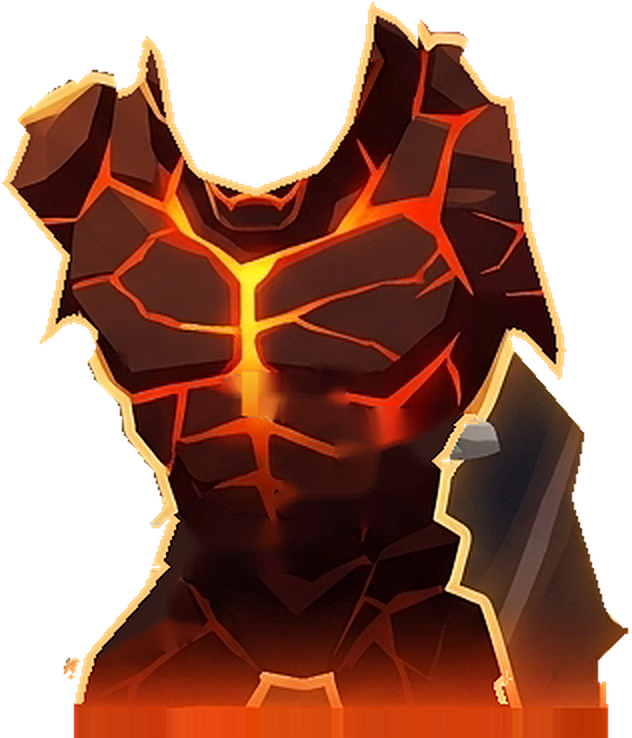
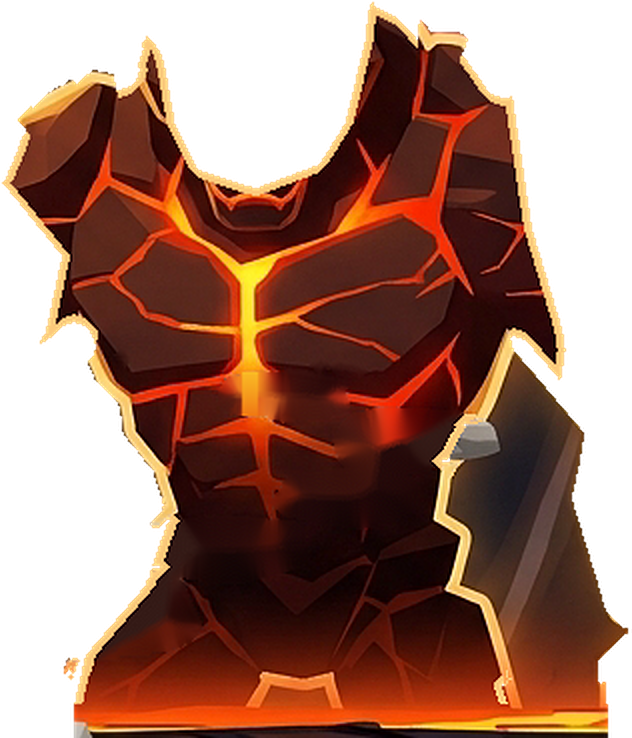
builder: jackal's feet show TARGET's own lava edge, not repeated-row streaks (cracks item still open)
Claude-Session: https://claude.ai/code/session_0157NezqdtDTof1NnH4aVuQr

Changed region(s): [[0.0902, 0.935, 0.962, 1.0]]

diff --git a/tools/beast_rig.py b/tools/beast_rig.py
@@ -548,6 +548,26 @@ def to_canvas(p):
     return ((p[0] - BOX[0]) * SCALE, (p[1] - BOX[1]) * SCALE)
 
 
+# Under the cut TARGET shows its lava line: a bright yellow-orange edge
+# with blobs of lava, then the dark floor. The repeated last row drew a band
+# of vertical streaks there instead ("hard red bars" at the feet), now that
+# the fight's lava line sits at TARGET's height and no longer hides it. So
+# the sink rows are TARGET's own rows under the body, faded out sideways
+# where the body ends.
+SINK_TARGET = True
+SINK_FEATHER = 5.0     # TARGET px
+
+
+def sink_target(rgb, a, T2):
+    k = CUT - BOX[1]
+    rgb, a = rgb.copy(), a.copy()
+    row = ndi.gaussian_filter1d((a[k - 1] > 0.5).astype(float), SINK_FEATHER)
+    row = np.minimum(row * 2.0, 1.0) * (a[k - 1] > 0.0)
+    rgb[k:] = T2[k:k + rgb.shape[0] - k]
+    a[k:] = np.minimum(a[k - 1], row)[None, :]
+    return rgb, a
+
+
 def sink(arr):
     """Repeat the row above the lava under it, so the floor hides the cut."""
     k = CUT - BOX[1]
@@ -613,7 +633,10 @@ def build():
             rgb, a = underlay_line(body, alpha[name], own[name], m), alpha[name].astype(float)
         rgb, a = crop_box(rgb).copy(), crop_box(a).copy()
         if name in ("torso", "fore_r"):
-            rgb, a = sink(rgb), sink(a)
+            if SINK_TARGET:
+                rgb, a = sink_target(rgb, a, crop_box(T))
+            else:
+                rgb, a = sink(rgb), sink(a)
         layers[name] = upscale(rgb, a)
 
     # The rest frame: every layer over the last, as the rig draws it.

diff --git a/design/plan/BUILDER-QUEUE-NOTES.md b/design/plan/BUILDER-QUEUE-NOTES.md
@@ -2107,8 +2107,9 @@ Found by measuring, not by eye: the jackal is TARGET's own pixels, so every crac
 - **Tried and reverted:** `crack_boost` (each crack widened 1 TARGET px with its brightest colour, middles heated to (255,196,70), a painted seam from the Y to the top stone). Chest error 15.1 and it read as orange cartoon outlines, spreading onto the muzzle lines. Not TARGET.
 - **Gap between torso and right arm:** the torso layer now carries TARGET's own dark cliff pixels in the gap the silhouette closes (`enclosed_gaps`), instead of the fight's purple sky.
 - **Seam under the top stone:** `carry_seam` paints the Y's stem on down inside the top stone's hole only (yellow into orange, x 508, y 356-392), so where the fight's slab sits a few px low the seam meets it as a line, not an inpainted haze.
-- **Grader:** R1 FAIL ("no visible change at frame scale"; 2-3x wider cracks with yellow-white cores), R2 FAIL (same, plus "seam a diffuse smear behind the top stone"), R3 FAIL (Y brighter; still thinner redder limb cracks). A registered close-up of the right forearm shows the same cracks as TARGET; the visible differences there are sky, cliff and lava bars. Final: VERDICT: FAIL.
-- Frames: ![[agents/frames/builder/2026-10-09-cracks5-before.png|420]] ![[agents/frames/builder/2026-10-09-cracks5c-after.png|420]]
+- **Feet:** the sink rows under the cut were the last row repeated, a band of vertical streaks now the lava line sits at TARGET's height. `sink_target` puts TARGET's own rows there (its lava edge), faded out sideways where the body ends. The scene's lava strip still shows red bars beside the body; hiding the heat-shimmer band did not remove them (the pool ring itself).
+- **Grader:** R1 FAIL ("no visible change at frame scale"; 2-3x wider cracks with yellow-white cores), R2 FAIL (same, plus "seam a diffuse smear behind the top stone"), R3 FAIL (Y brighter; still thinner redder limb cracks), R4 FAIL (after the sink fix; same asks). A registered close-up of the right forearm shows the same cracks as TARGET; the visible differences there are sky, cliff and lava bars. Final: VERDICT: FAIL.
+- Frames: ![[agents/frames/builder/2026-10-09-cracks5-before.png|420]] ![[agents/frames/builder/2026-10-09-cracks5d-after.png|420]]
 - Meshy: 0 credits.
 
 ## Fist fire: compact curling blaze wrapped on the fist.

diff --git a/design/plan/BUILDER-QUEUE.md b/design/plan/BUILDER-QUEUE.md
@@ -33,7 +33,7 @@ run failed.
       ![[agents/frames/builder/2026-10-08-softslabs-after.png|420]] ^stones-thin-soft-slabs-lower-and-spread
 
 - [ ] **Cracks: wide hot cores and a long sternum seam.**
-      Next pass: grader R3 (2026-10-09 run 5): still calls limb and torso cracks thinner and redder with no yellow cores, and the seam short; a registered close-up of the right forearm shows TARGET's own cracks unchanged, and the only visible differences there are the purple sky, the cliff and the hard red lava bars round the body, so fix those surroundings (items below) and re-grade before touching the cracks again.
+      Next pass: grader R4 (2026-10-09 run 5): limb, shoulder and thigh cracks thinner and redder, Y and seam narrower; it asks for 2x width with #FFD040 cores, which the registered pixels contradict (the right forearm is TARGET's own cracks unchanged) and which a widen-and-heat pass this run turned into cartoon outlines; next, fix the lava strip's red bars round the body and the purple sky left of the torso, then re-grade.
       Both critics, MODERATE: TARGET's cracks are wide with yellow-hot cores and a bright yellow seam running down from the sternum; the game's are thinner, redder, with a small dim Y.
       **Done when** the `--square` and `--beast` pairs show no visible difference in the cracks and the sternum seam.
       Test: state=3d beast=cinder_jackal ^cracks-wide-hot-cores-and-a-long-sternum

diff --git a/design/agents/status/builder.md b/design/agents/status/builder.md
@@ -15,11 +15,12 @@ The one lane that builds. Queue: [[../../plan/BUILDER-QUEUE]]. Brief:
 
 2026-10-08 21:25 EDT
 
-- **Did:** sharpened the jackal to TARGET's crispness, cleared stone smears, carried the sternum seam to the stone.
+- **Did:** sharpened the jackal to TARGET's crispness, cleared stone smears, carried the seam down, fixed streaky feet.
 - **Worked?** No for the grader, yes by pixels: chest error 12.6 to 9.5, sharpness 4.7 to 8.5 (TARGET 8.4); grader still asks for wider cracks. VERDICT: FAIL
-- **Look at:** ![[frames/builder/2026-10-09-cracks5-before.png]] then ![[frames/builder/2026-10-09-cracks5c-after.png]]
+- **Look at:** ![[frames/builder/2026-10-09-cracks5-before.png]] then ![[frames/builder/2026-10-09-cracks5d-after.png]]
 - **Ask:** nothing
 - **Found:** a fixed ember speck sits on the jackal's chest right of the sternum in the rest shot.
+- **Found:** the scene's lava pool ring draws hard red bars either side of the jackal's feet.
 - **Found:** widening the cracks as graders ask (tried this run) visibly departs from TARGET's own pixels.
 
 ## Notes
